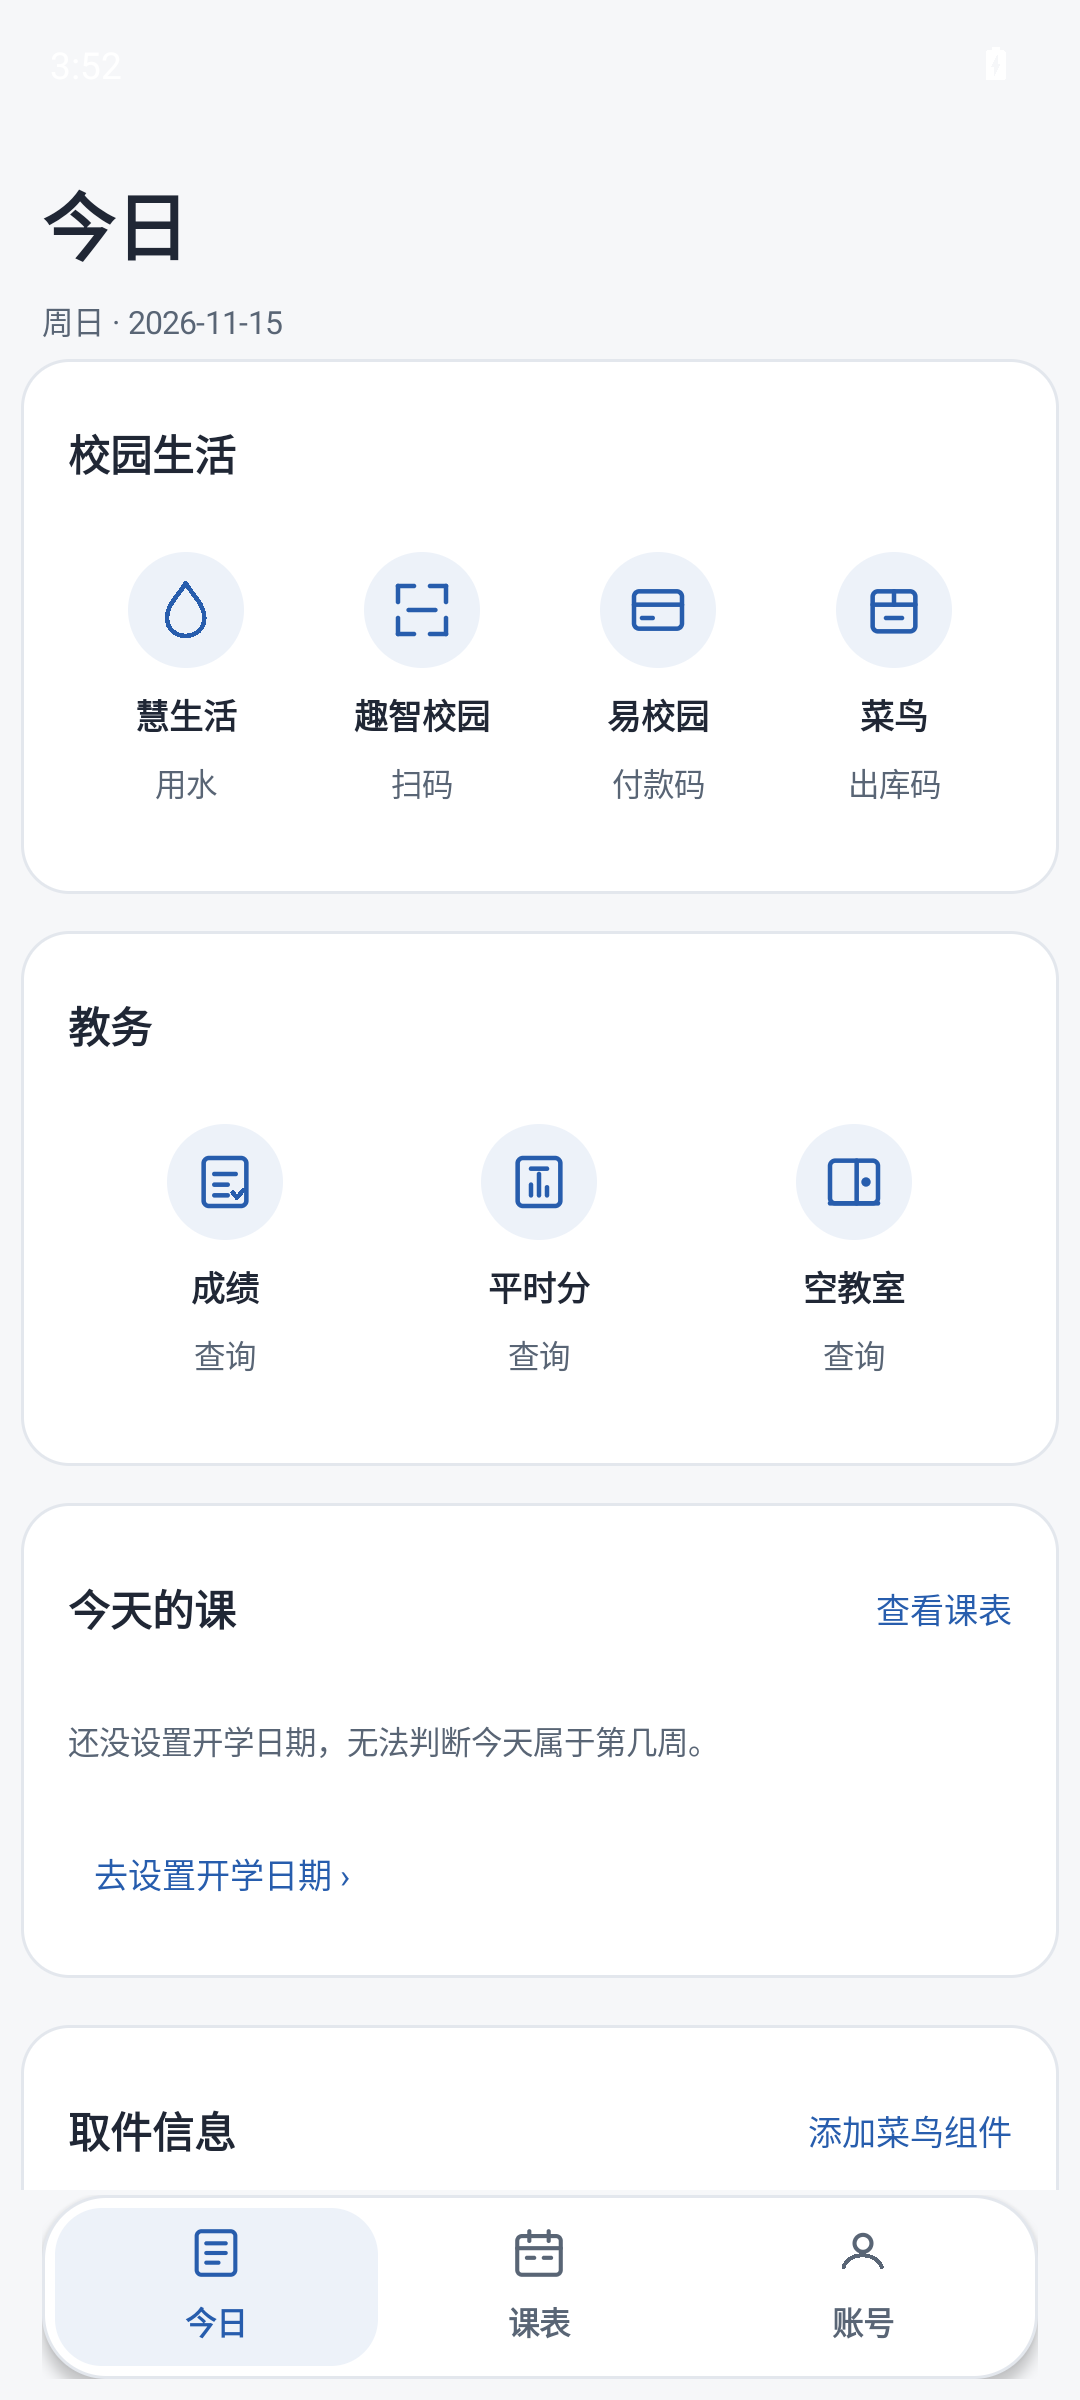
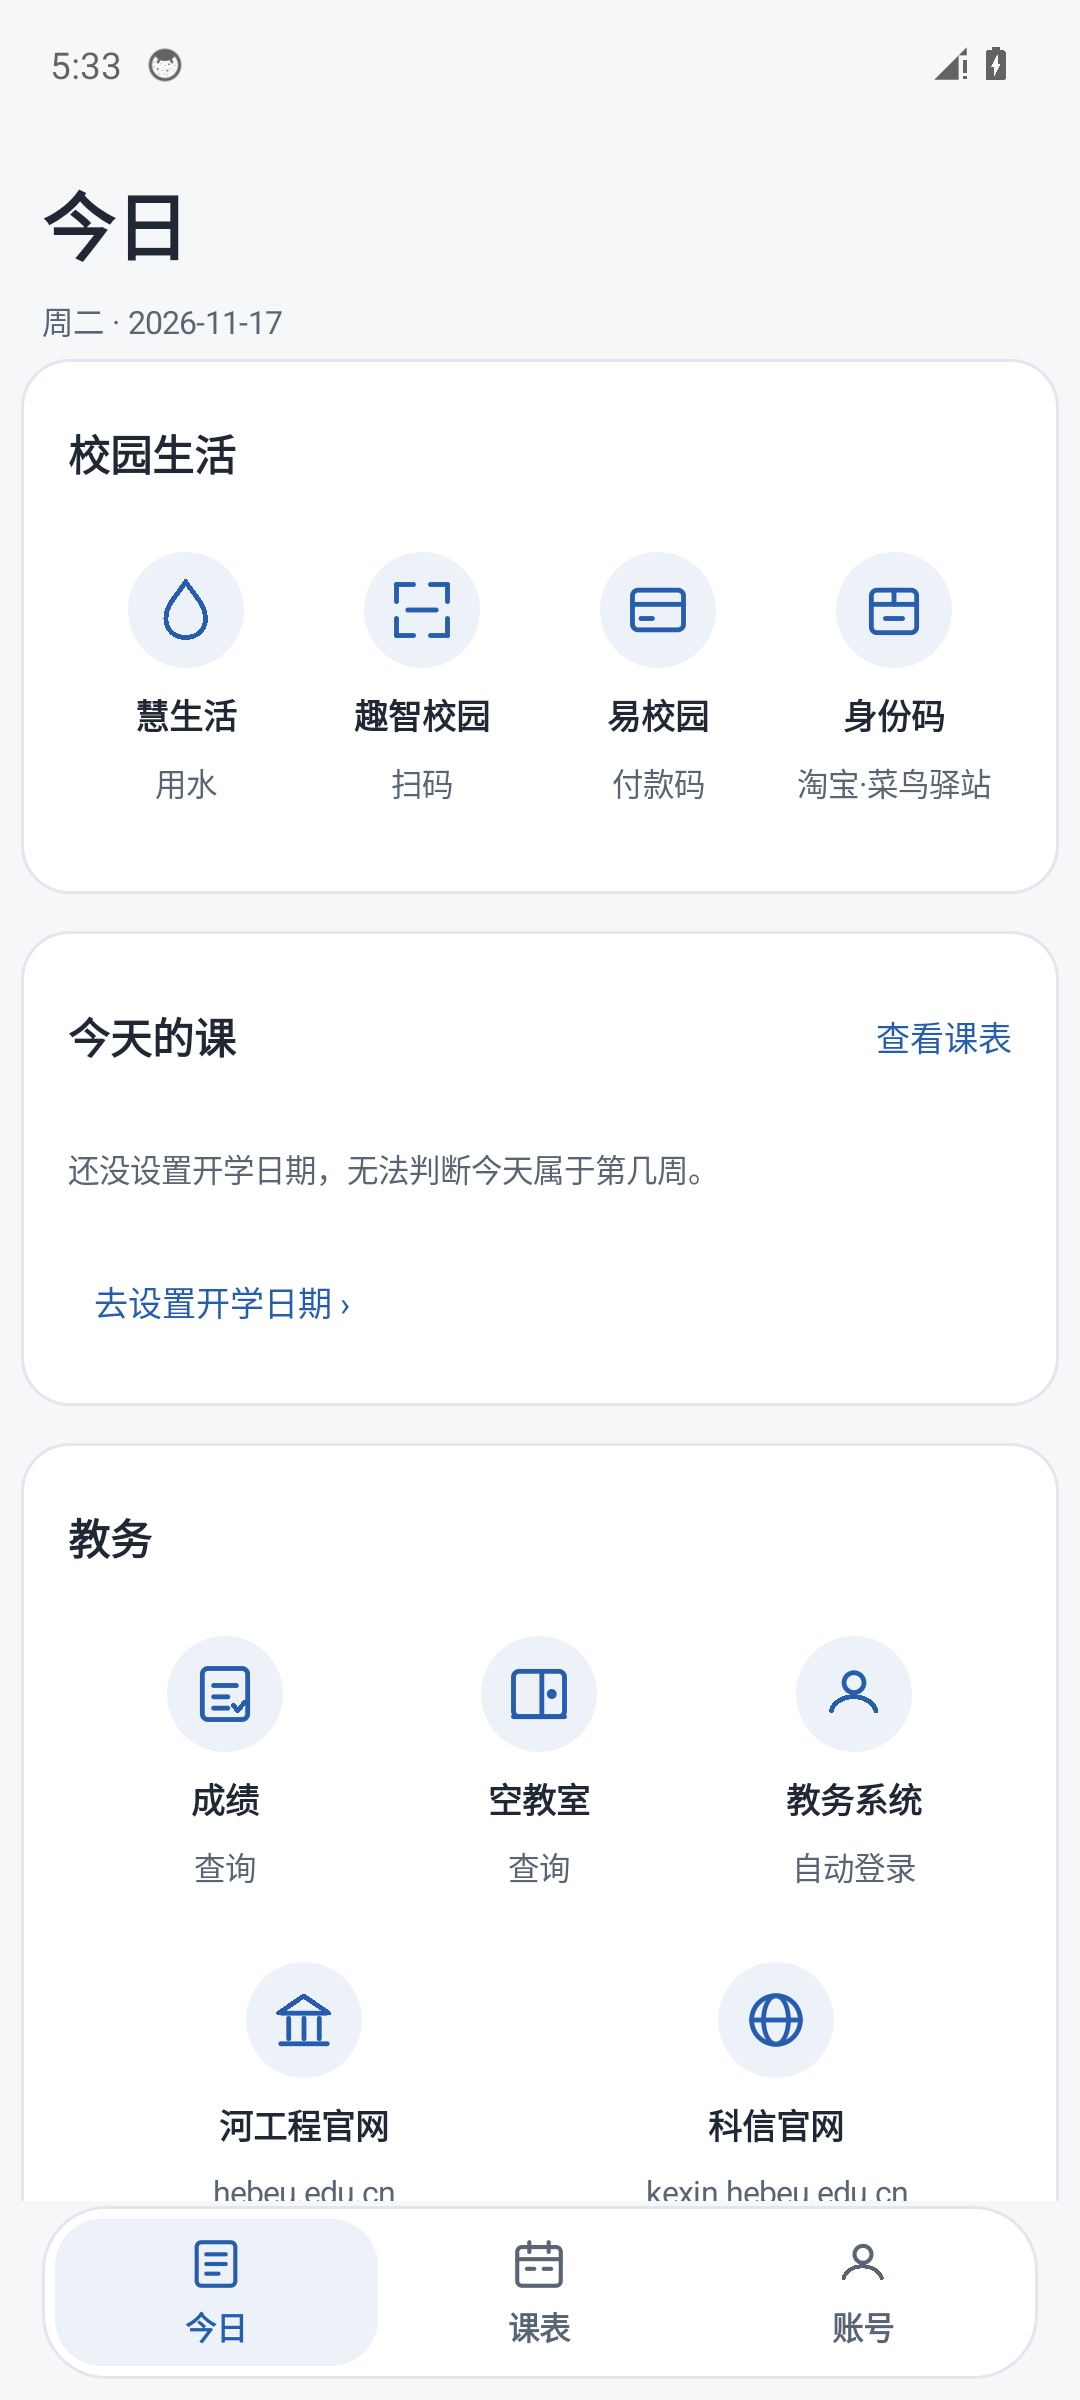
Recapture the screenshots from 2.5.3 and name the college
The two screenshots came from an 11 November build with an empty
timetable, so the page no longer matched the app. Both are recaptured
from the 2.5.3 APK on the qzxy-unpack emulator at 1080x2400, in the
state the app actually starts in: nothing injected, no account, no
timetable. The empty board says how to import, and the manage menu is
captured alongside it, so the README shows what a new install looks
like rather than a rehearsal.

Hero line and the disclaimer now say 河北工程大学科信学院, which is
whose students this is for; the academic system is still the
university's, so that row keeps the university name.

diff --git a/README.md b/README.md
@@ -3,7 +3,7 @@
 
 <h1>科信小助手</h1>
 
-<p><b>河北工程大学 · 趣智校园 / 慧生活798 的第三方安卓客户端</b></p>
+<p><b>河北工程大学科信学院 · 趣智校园 / 慧生活798 的第三方安卓客户端</b></p>
 <p>吃饭、接水、洗澡、看课表 —— 一个 APK，不用在四个应用之间来回跳。</p>
 
 <p>
@@ -37,7 +37,6 @@
 
 - **不建账号系统**：没有注册、没有手机号绑定，登录凭据 AES-256-GCM 加密存在手机私有目录
 - **不接中间服务器**：课表、成绩、水控全部直连学校与平台的官方接口
-- **不猜协议**：拿不准的字段就不显示，失败时说清楚原因，而不是转圈
 - **不做增值**：没有广告、没有推送 SDK、没有统计 SDK，权限只申请 5 个
 
 ## 项目一览
@@ -54,10 +53,10 @@
 
 ## 界面
 
-| 今日 | 课表 · 管理 |
-| :--: | :--: |
-| <img src="docs/screenshots/today.png" width="248" alt="今日页"> | <img src="docs/screenshots/course-manage.png" width="248" alt="课表管理"> |
-| 校园生活快捷入口、教务查询、今天的课、取件信息，一页收齐 | 多课表切换、从教务导入、开学日期、自定义背景、备份与恢复、三种桌面组件 |
+| 今日 | 课表 | 课表 · 管理 |
+| :--: | :--: | :--: |
+| <img src="docs/screenshots/today.png" width="215" alt="今日页"> | <img src="docs/screenshots/timetable.png" width="215" alt="课表周视图"> | <img src="docs/screenshots/timetable-menu.png" width="215" alt="课表管理菜单"> |
+| 校园生活入口、今天的课、教务查询、取件信息；没设开学日期就直接说怎么设 | 按节次排布的周视图，空表也把「怎么导入」写在页面上 | 多课表、教务导入、开学日期、添加课程、自定义背景、桌面组件、备份与恢复 |
 
 ## 功能
 
@@ -283,7 +282,7 @@ docs/           README 用到的截图
 
 ## 免责声明
 
-本项目是第三方客户端，与趣智校园、慧生活798、河北工程大学及任何相关公司、部门**没有隶属或合作关系**。所有接口由第三方平台提供，可能随时变更或关闭，因此部分功能存在失效的可能。
+本项目是第三方客户端，与趣智校园、慧生活798、河北工程大学及其科信学院、任何相关公司或部门**没有隶属或合作关系**。所有接口由第三方平台提供，可能随时变更或关闭，因此部分功能存在失效的可能。
 
 代码仅供学习与个人使用，请遵守学校与平台的使用规定，不要用于商业用途或任何绕过计费的目的。使用本应用产生的任何后果由使用者自行承担。
 
